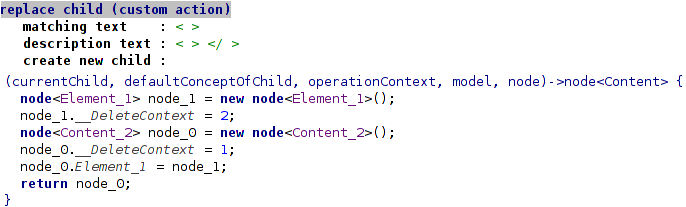
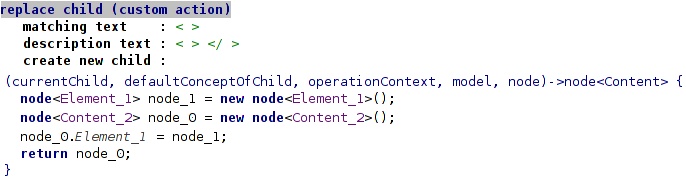
Correct next part of the shortcut approach

Changed region(s): [[0.0, 0.0276, 1.0, 0.9116], [0.0, 0.9116, 0.0306, 1.0]]

diff --git a/chapters/importing_the_grammar/the_shortcut_approach.tex b/chapters/importing_the_grammar/the_shortcut_approach.tex
@@ -169,19 +169,38 @@ For the description text, we used concept's alias. We talk about creating aliase
 For matching text we used the shortest unique prefix of alias among all other options' aliases in given auto-complete menu.
 The algorithm for searching shortest unique prefixes in a set of strings is not important from our thesis' point of view, so we decided to not go into further detail.
 
-\paragraph{The layer problem again [TODO]}
 
-After we implemented the auto-complete menu, coding in the imported language started to be very reasonable and comfortable since we eradicated intermediate layers. Or did we? When producing code, the language really does what one would expect, however when user starts deleting things, the layer problem occurs once more.
+\paragraph{The layer problem again}
+
+After we implemented the auto-complete menu, coding in the imported language started to be very reasonable and comfortable, since we eradicated intermediate layers.
+Or did we?
+When producing code, the language really does what one would expect. However, when user starts deleting things, the layer problem occurs once more.
 \\
 
-What happens here is that when we select the auto-complete option, several layers of concept might get created and inserted into the cell. Imagine we just inserted the \concept{Element{\_}1} node. According to the creator method, this new node is wrapped inside of the \concept{Content{\_}2} node. Now let's say user changed his mind and wants to replace this XML element with a comment. He would press backspace, the XML element would disappear as expected. Then user would invoke the auto-complete menu again and expect again to have all five options at hand. What happened instead is that the \concept{Element{\_}1} node got deleted, but the wrapping \concept{Content{\_}2} one remained. The \concept{Content{\_}2} concept has only one child of type Element and that is why user only sees \concept{Element{\_}1} and \concept{Element{\_}2} as options in the auto-complete.
+What happens here is, that when we select the auto-complete option, several layers of concepts might get created and inserted into the cell.
+Imagine, we just inserted the \concept{Element{\_}1} node.
+According to the creator method, this new node is wrapped inside of the \concept{Content{\_}2} node.
+Now let's say, user changed his mind, and wants to replace this XML element with a comment. 
+He would press backspace, the XML element would disappear as expected.
+Then, the user continues by invoking the auto-complete menu again, expecting to have all five options at hand.
+What happened instead is that the \concept{Element{\_}1} node got deleted, but the wrapping \concept{Content{\_}2} one remained.
+The \concept{Content{\_}2} concept has only one child of type Element and that is why our user only sees \concept{Element{\_}1} and \concept{Element{\_}2} as options in the auto-complete.
+
 
 \paragraph {The deletion context}
 
-Solution to this resurrected layer problem lies in controlling the deletion event. Once again, MPS' authors have equipped us with tools for doing this. We are able to specify our own handler for the deletion event for any cell of the projectional editor. But what will it look like?
+Solution to this resurrected layer problem lies in controlling the deletion event.
+Once again, MPS' authors have equipped us with tools for doing this.
+We are able to specify our own handler for the deletion event for any cell of the projectional editor.
+But what will it look like?
 \\
 
-When deleting a node, we would like to remove the shortcut, the whole path, and effectively reversing the effect of the creator method. We decided that it will be the easiest to store the length of the path that is leading to certain node with the node. So when we are creating the node path in the creator method, we tell each node how deep or far on the path it is. In order to do this, we created a \concept{BaseConcept}, a parent abstract concept from which we will inherit all other concepts. This abstract concept will define a special integer property that will hold our information and effectively making all other concepts inherit it too. We called this property \textit{{\_}{\_}DeleteContext} and enhanced the creator method as shown in figure \ref{fig:autocomplete_action_delete_context}.
+When deleting a node, we would like to remove the shortcut, the whole path, and effectively reversing the effect of the creator method.
+We decided that it will be the easiest to store the length of the path, that is leading to certain node, together with the node.
+So when we are creating the node path in the creator method, we tell each node, how deep or far on the path the node is.
+In order to do this, we created a \concept{BaseConcept}, a parent abstract concept, from which we will inherit all other concepts.
+This abstract concept will define a special integer property, that will hold our information, effectively making all other concepts inherit it too.
+We called this property \textit{{\_}{\_}DeleteContext} and enhanced the creator method as shown in figure \ref{fig:autocomplete_action_delete_context}.
 
 \begin{figure}[h]
 	\centering
@@ -190,7 +209,8 @@ When deleting a node, we would like to remove the shortcut, the whole path, and 
 	\label{fig:autocomplete_action_delete_context}
 \end{figure}
 
-The last thing remaining is creating the backspace action. Apart from some problems with referencing the \textit{{\_}{\_}DeleteContext} property, which must be reached through the abstract \concept{BaseConcept} type, it is quite straightforward to generate a BaseLanguage code like shown below (figure \ref{fig:backspace_action}).
+The last thing remaining, is creating the backspace action. 
+Apart from some problems with referencing the \textit{{\_}{\_}DeleteContext} property, which must be reached through the abstract \concept{BaseConcept} type, it is quite straightforward to generate a BaseLanguage code like shown below (figure \ref{fig:backspace_action}).
 
 \begin{figure}[h]
 	\centering
@@ -199,17 +219,24 @@ The last thing remaining is creating the backspace action. Apart from some probl
 	\label{fig:backspace_action}
 \end{figure}
 
-We must not forget to pin this handler to every cell that we pin the auto-complete to. After we had done this, the layer problem has finally been eradicated. The language became a bit more usable once more.
+We must not forget to pin this handler to every cell, that we pin the auto-complete menu to.
+After we had done this, the layer problem has finally been eradicated.
+The language became a bit more usable once more.
 
-\subsubsection{Smart interfaces}
+\textbf{[TODO - obrazek s celym kodem pro tvorbu menu?]}
 
-After we have implemented the smart autocomplete, we realized that there might be another way to accomplish almost the same result. It would mean changing the first step concerning concept interfaces creation.
+\subsubsection{Smart interfaces [TODO - korekce podle poznamek]}
+
+After we have implemented the smart auto-complete, we realized, that there might be another way to accomplish almost the same result.
+It would mean changing the first step concerning interfaces and concept linking.
 \\
 
-The main idea behind this is the realization that if for each concept interface there exists a finite set of end concepts, we could just create a special interface and let all these and only these end concepts implement it. It is important that other non-end concepts that are in the shortcut will not implement it, because that would put us right back where we started with the straightforward approach \ref{chap:straightforward_approach} and the layer problem \ref{chap:layer_problem}. To give an example regarding our content rule, we would create an \interface{IContent} interface concept and only following concepts would implement it:
+The main idea behind this is the realization, that if for each concept interface there exists a finite set of end concepts, we could just create a special interface and let all these and only these end concepts implement it.
+It is important, that other non-end concepts, that are in the shortcut path, will not implement it. 
+That would put us right back where we started with the straightforward approach \ref{chap:straightforward_approach} and the layer problem \ref{chap:layer_problem}.
+To give an example regarding our content rule, we would create an \interface{IContent} interface concept and only following concepts would implement it:
 
 \begin{itemize}
-	\setlength\itemsep{0pt}
 	\item Content{\_}1
 	\item Element{\_}1
 	\item Element{\_}2
@@ -217,17 +244,24 @@ The main idea behind this is the realization that if for each concept interface 
 	\item Content{\_}4
 \end{itemize}
 
-Concepts would of course implement as many interfaces as many shortcuts lead to them. The difference is that the intermediary layers will not, preventing the layering.
+Concepts would, of course, implement as many interfaces as many shortcuts lead to them.
+The difference is, that the intermediary layers will not, which will prevent the layering.
 \\
 
-We still need to find end concepts for each rule, so we will keep the same algorithm for finding shortcuts as before. We, however, do not need to implement our own auto-completion (and subsequently with it no deletion handlers), because the built in default auto-completion will start to behave exactly the same way our smart auto-completion did.
+We still need to find end concepts for each rule, so we will keep the same algorithm for finding shortcuts as before. 
+We, however, do not need to implement our own auto-completion and, subsequently with it, no deletion handlers.
+The built-in default auto-completion will start to behave exactly the same way our smart auto-completion does.
 
-\paragraph{Cardinality restriction}
+\paragraph{Cardinality restriction [TODO - korekce podle poznamek]}
 
-So far it looks like the last approach is superior to the auto-completion one. It avoids complicated code generation and even resulting MPS languages are more simple, perhaps better performant as they are not bloated with auto-completion code. There is one small drawback though, that makes this solution suboptimal.
+So far it looks like the last approach is superior to the auto-completion one.
+It avoids complicated code generation and even resulting MPS languages are more simple, perhaps better performant as they are not bloated with auto-completion code.
+There is one small drawback though, that makes this solution suboptimal.
 \\
 
-To remind the reader --- the cardinality of an element is telling us, how many of each specific child rules can occur inside an alternative. Inside the grammar this was expressed using quantification operators (\textbf{*},\textbf{+} and \textbf{?}). The problem that appears here can be shown using these example rules:
+To remind the reader --- the cardinality of an element is telling us, how many of each specific child rules can occur inside an alternative.
+Inside the grammar, this was expressed using quantification operators (\textbf{*},\textbf{+} and \textbf{?}).
+The problem that appears here can be shown using these example rules:
 
 \begin{antlr}
 \parserrule{content}      :   \parserrule{element}+
